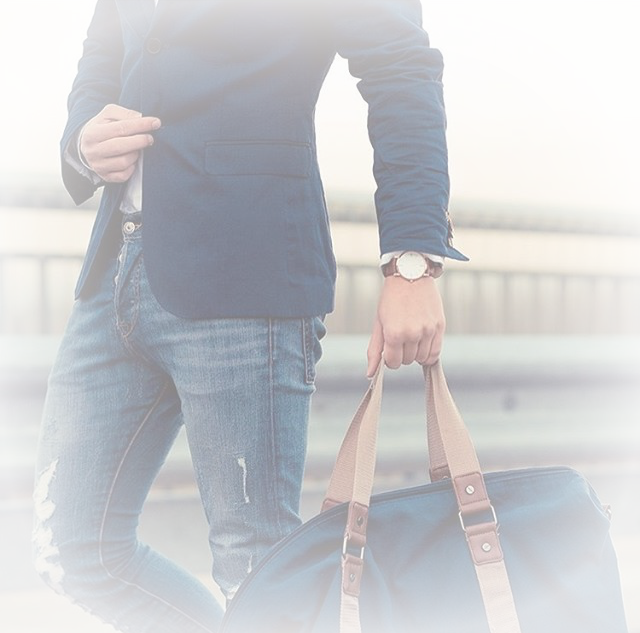
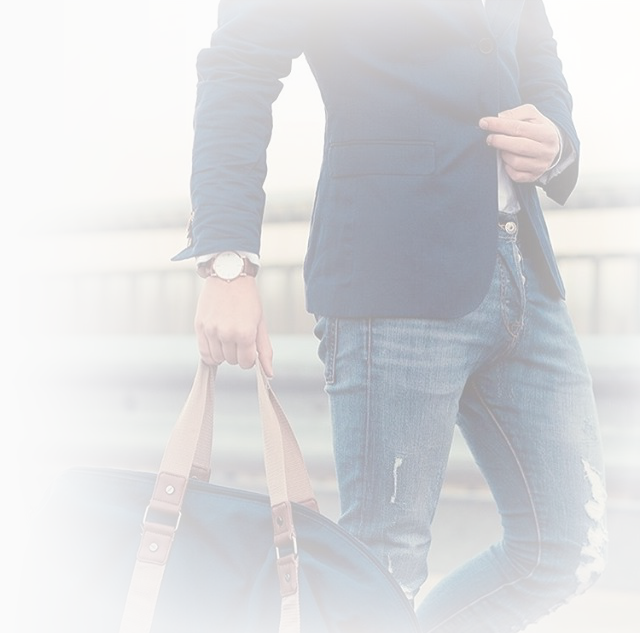
Modif des images section presentation

diff --git a/css/style.css b/css/style.css
@@ -155,12 +155,16 @@ header nav li:hover {
   background: url(../img/bg_experiences.PNG)no-repeat center right;
 }*/
 /* Pour Anim bg JS */
+.bg-formations {
+  background: url(../img/mockup2.jpg)no-repeat center left;
+  background-size: contain;
+}
 .bg-exp {
   background: url(../img/bg_experiences.PNG)no-repeat center right;
   background-size: contain;
 }
-.bg-formations {
-  background: url(../img/mockup2.jpg)no-repeat center left;
+.bg-loisirs {
+  background: url(../img/bg_loisirs.jpg)no-repeat center right;
   background-size: contain;
 }
 /**//**//**//**//**/
@@ -229,7 +233,7 @@ header nav li:hover {
   list-style-type: square;
   margin-left: 30px;
 }
-#presentation div#formations {
+#presentation div#formations, #presentation div#loisirs {
   text-align: center;
 }
 

diff --git a/js/script.js b/js/script.js
@@ -111,6 +111,7 @@ $(function(){ //Fonction d'attente du chargement du DOM
     // Loisirs :
     $('#presentation .container>ul>li').eq(3).on('click', function(){
         $('#presentation').removeClass();
+        $('#presentation').addClass('bg-loisirs');
         $('#loisirs').slideDown();
         $('#formations, #exp, #description').slideUp();
         $('#presentation h2').text('Loisirs');
